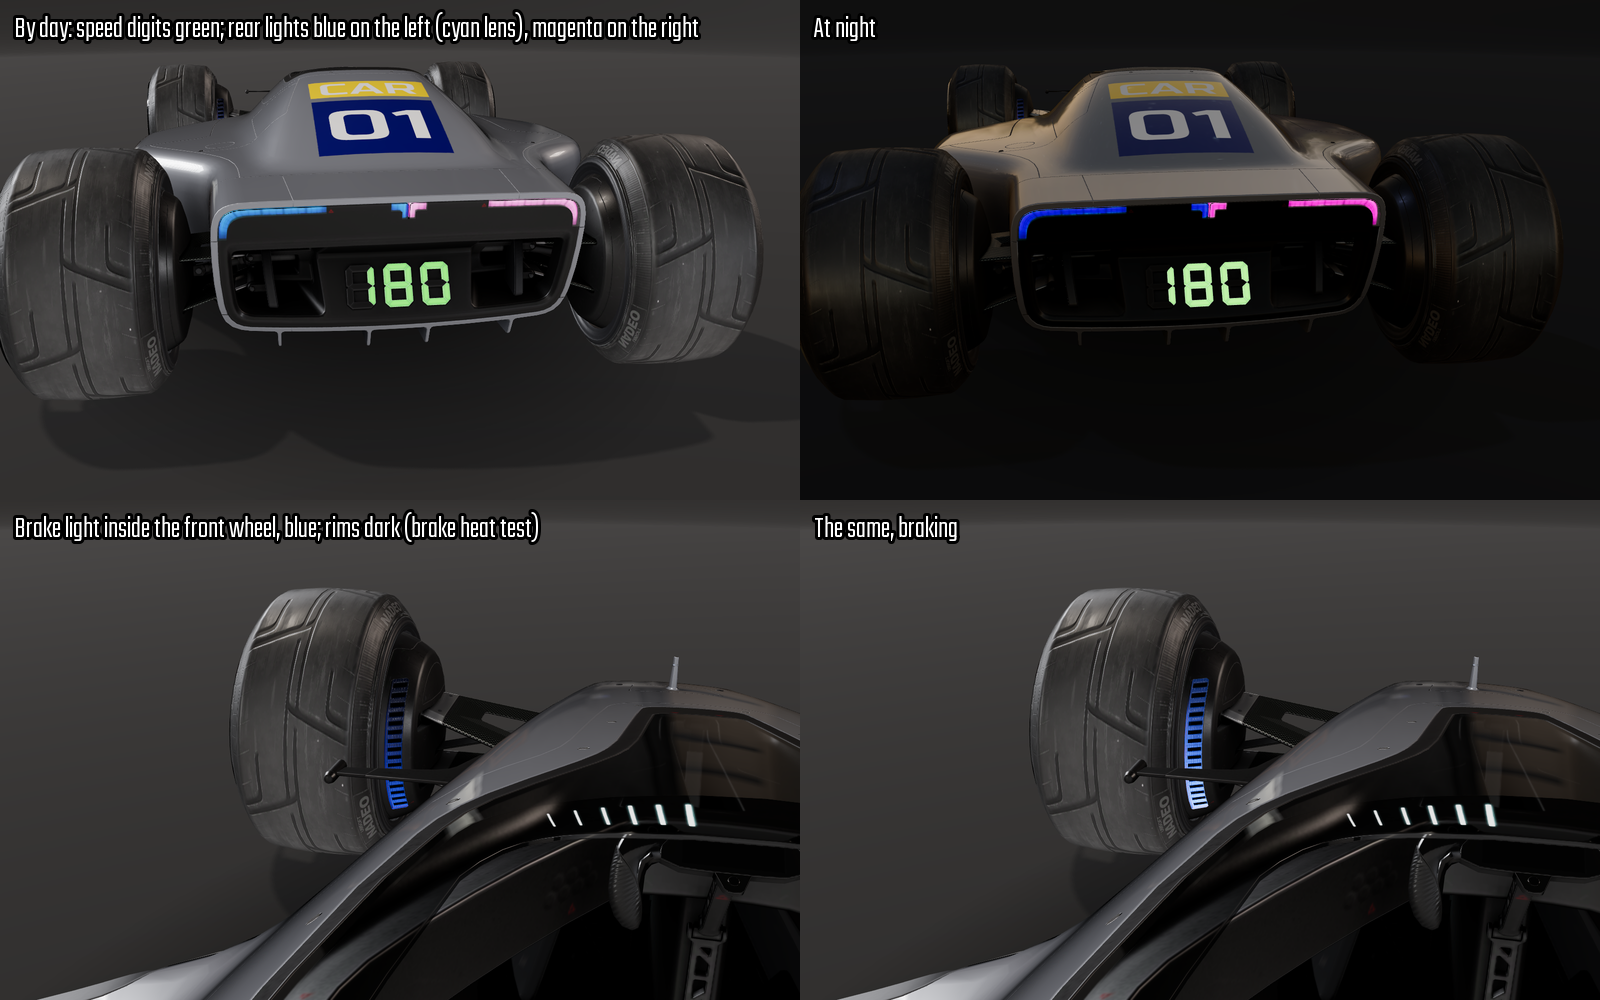
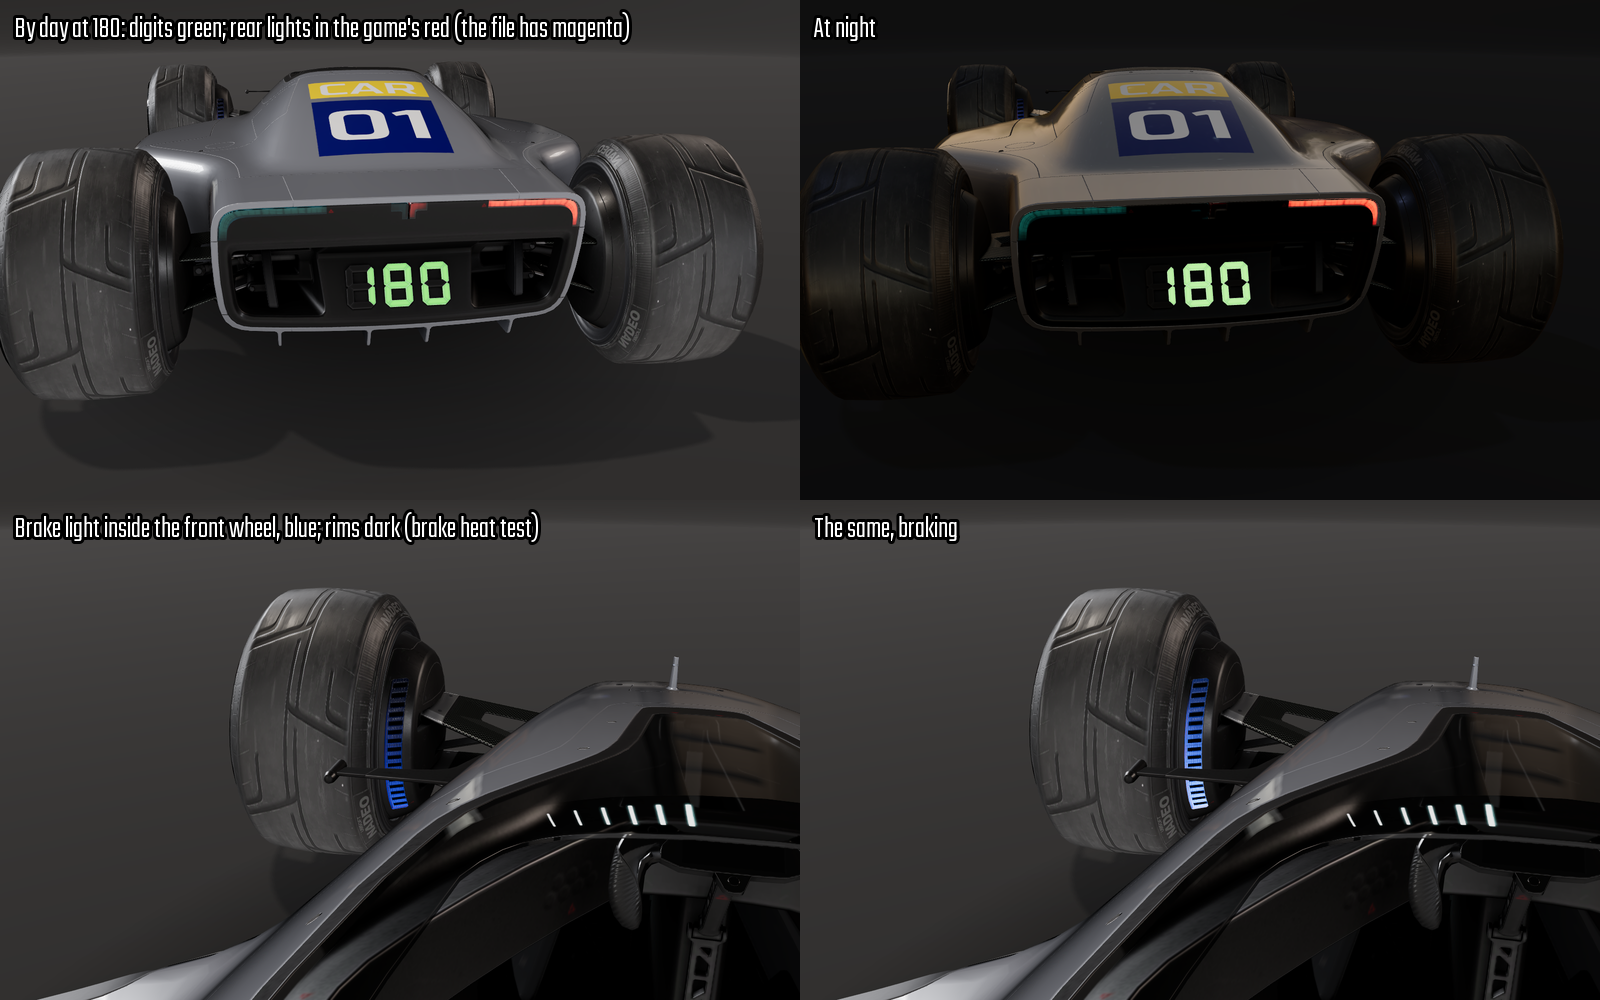
The rear lights as the game's gear display: a band per gear, all red when braking

diff --git a/viewer/viewer.js b/viewer/viewer.js
@@ -506,12 +506,34 @@ function showSpeed(kmh) {
 }
 showSpeed(SPEED);
 
-// Details only; after addGlow.
-function addDigits(material) {
+// ---- The rear lights: a gear display. The user watched the game (2026-09-25): standing still
+// only the far left and right bars light; each gear lights the next bar (five gears); braking
+// lights the whole thing red. Each side's bar (the L from the tail's corner along its top) is
+// split into five bands by dark lines in Details_I/Details_B, at these v's of its UV strip
+// (measured 2026-09-25): the band from v 0.450 (the corner) is gear 1, the one ending at 0.532
+// (towards the middle) gear 5. The small centre piece lights when braking. The colour is the
+// game's red: the stock file is white there, the game red. Provisional until the lights test:
+// the gear speeds, whether the bands fill up or move along, the centre piece. ----
+
+// The bar's surface is tinted red too, as a red lens looks when unlit: a strong glow over the
+// pale stock surface washed out to peach under the tone mapping.
+const REAR = { colour: [1, 0.06, 0.04], lens: [0.55, 0.06, 0.05], on: { day: 1.8, night: 2.4 }, brake: { day: 6, night: 7 } };
+const GEARS = [40, 80, 120, 160];  // km/h where gears 2-5 come in: a guess
+const gearOf = (kmh) => 1 + GEARS.filter((t) => kmh >= t).length;
+const rearUniforms = { rearColour: { value: new THREE.Color(...REAR.colour) }, rearLens: { value: new THREE.Color(...REAR.lens) }, rearLevel: { value: REAR.on.day },
+  rearBrake: { value: 0 }, rearGear: { value: gearOf(SPEED) } };
+
+function setupRearLights() {
+  partsState.doc.parts.forEach((p, i) => { if (p.name === 'rear light') partsState.data[i * 4 + 3] = 255; });
+  partsState.table.needsUpdate = true;
+}
+
+// Details only; after addGlow and addParts: the speed digits and the rear lights.
+function addDisplays(material) {
   const previous = material.onBeforeCompile;
   material.onBeforeCompile = (shader) => {
     if (previous) previous(shader);
-    Object.assign(shader.uniforms, digitUniforms);
+    Object.assign(shader.uniforms, digitUniforms, rearUniforms);
     shader.vertexShader = shader.vertexShader
       .replace('#include <uv_pars_vertex>', `#include <uv_pars_vertex>
         attribute float digit; varying float vDigit;`)
@@ -520,14 +542,27 @@ function addDigits(material) {
     shader.fragmentShader = shader.fragmentShader
       .replace('#include <map_pars_fragment>', `#include <map_pars_fragment>
         varying float vDigit;
-        uniform int digitMask[ 3 ];`)
+        uniform int digitMask[ 3 ];
+        uniform vec3 rearColour; uniform vec3 rearLens; uniform float rearLevel; uniform float rearBrake; uniform int rearGear;
+        #define IS_REAR ( texture2D( partTable, vec2( ( vPart + 0.5 ) / 256.0, 0.25 ) ).a > 0.5 )  // a macro: partTable is declared after this`)
+      .replace('#include <color_fragment>', `#include <color_fragment>
+        if ( IS_REAR ) diffuseColor.rgb *= rearLens;`)
       .replace('#include <aomap_fragment>', `#include <aomap_fragment>
         if ( vDigit > 0.5 ) {  // 1 + 7 * digit + segment
           int code = int( vDigit + 0.5 ) - 1;
           totalEmissiveRadiance *= float( ( digitMask[ code / 7 ] >> ( code % 7 ) ) & 1 );
+        }
+        if ( IS_REAR ) {  // the rear lights
+          float lit = rearBrake;
+          if ( vPartUv.x < 0.5 ) {  // a bar: its band, 0 at the tail's corner to 4 towards the middle
+            int band = int( vPartUv.y >= 0.4747 ) + int( vPartUv.y >= 0.4903 ) + int( vPartUv.y >= 0.5030 ) + int( vPartUv.y >= 0.5157 );
+            lit = max( lit, float( band < rearGear ) );
+          }
+          vec3 file = texture2D( emissiveMap, vEmissiveMapUv ).rgb;
+          totalEmissiveRadiance = max( file.r, max( file.g, file.b ) ) * rearColour * rearLevel * lit;
         }`);
   };
-  material.customProgramCacheKey = () => 'parts-digits';
+  material.customProgramCacheKey = () => 'parts-displays';
 }
 
 // Braking: the brake lights (code 0) flare, as in the game (checkpoint 1: towards white). Show →
@@ -548,6 +583,9 @@ function applyBraking() {
   const look = night ? 'night' : 'day';
   glowUniforms.glowGain.value[0] = braking || drive.brake ? BRAKING[look] : GLOW[0][look];
   glowUniforms.glowGain.value[5] = drive.turbo ? TURBO[look] : GLOW[5][look];
+  const brake = braking || drive.brake;
+  rearUniforms.rearBrake.value = brake ? 1 : 0;
+  rearUniforms.rearLevel.value = (brake ? REAR.brake : REAR.on)[look];
 }
 
 // ---- The pad under the car: hold Accelerate or Brake (or ↑/W, ↓/S) and the car shows it, the
@@ -573,7 +611,12 @@ function stepDrive(now) {
     byId('padTurbo').classList.toggle('on', turbo);
   }
   const kmh = Math.round(drive.speed);
-  if (kmh !== drive.shown) { drive.shown = kmh; showSpeed(kmh); }
+  if (kmh !== drive.shown) {
+    drive.shown = kmh;
+    showSpeed(kmh);
+    rearUniforms.rearGear.value = gearOf(kmh);
+    byId('padGear').textContent = gearOf(kmh);
+  }
 }
 function hold(pedal, on) {
   if (drive[pedal] === on) return;
@@ -716,7 +759,7 @@ function makeMaterials(tex) {
   const out = { Skin: skin, Details: details, Wheels: wheels, Glass: glass };
   for (const [name, material] of Object.entries(out)) addParts(material, sharedMaps[name]);
   addPlate(skin);
-  if (tex.Details_I) addDigits(details);
+  if (tex.Details_I) addDisplays(details);
   return out;
 }
 
@@ -977,6 +1020,7 @@ async function start() {
   buildPartsList();
   addRoom();
   await setupPlate(geoms.Skin);
+  setupRearLights();
   await loadSkin(skinName);
   setNight(false);
   if (!snap) {  // on unless this browser turned it off last time

diff --git a/viewer/index.html b/viewer/index.html
@@ -81,6 +81,8 @@
   #speedo { display: flex; align-items: baseline; gap: 5px; min-width: 104px; justify-content: center; padding: 0 6px; }
   #speedo b { font-size: 38px; font-weight: 600; font-variant-numeric: tabular-nums; }
   #speedo small { font-size: 16px; opacity: 0.6; }
+  #speedo .gear { margin-left: 8px; }
+  #speedo .gear b { font-size: 20px; opacity: 1; }
   #padTurbo { font-style: normal; font-size: 15px; padding: 3px 6px 1px; margin-left: 4px; opacity: 0.3; transform: skewX(-12deg); }
   #padTurbo.on { opacity: 1; background: var(--acc); color: var(--ground); }
 
@@ -191,7 +193,7 @@
 
 <div id="pad" class="chrome teko">
   <button id="padBrake" class="sk key" aria-pressed="false" title="hold to brake (↓ or S)"><svg class="ic"><use href="#i-down"/></svg><span>Brake</span></button>
-  <span id="speedo"><b id="padSpeed">180</b><small>km/h</small><i id="padTurbo" title="the turbo-colour glow, from 100 km/h (provisional)">Turbo</i></span>
+  <span id="speedo"><b id="padSpeed">180</b><small>km/h</small><small class="gear">gear <b id="padGear">5</b></small><i id="padTurbo" title="the turbo-colour glow, from 100 km/h (provisional)">Turbo</i></span>
   <button id="padGas" class="sk key" aria-pressed="false" title="hold to accelerate (↑ or W)"><span>Accelerate</span><svg class="ic"><use href="#i-up"/></svg></button>
 </div>
 

diff --git a/skins/TSC_Lights_Test/notes.md b/skins/TSC_Lights_Test/notes.md
@@ -9,7 +9,7 @@ shows; compare the game's screenshots with it.
 |---|---|---|---|
 | Speed digits (rear bumper) | green | the stock glow (white, code 96) recoloured | the speed shows in green, and the unlit segments stay dark |
 | Brake lights (the slotted crescent inside each front wheel) | blue | the stock glow (dim red, code 0) recoloured | dim blue at rest, flaring when braking. A report online says red may show through |
-| Rear lights (the bars under the tail's lenses) | magenta glow; the car's left lens tinted cyan | the stock glow (white in the file, red in the game) recoloured, and the lens tinted | red on both sides = neither works; magenta = the glow works; cyan or blue on the left = the lens tint works too |
+| Rear lights (the bars under the tail's lenses) | magenta glow; the car's left lens tinted cyan | the stock glow (white in the file, red in the game) recoloured, and the lens tinted | red on both sides = neither works; magenta = the glow works; cyan or blue on the left = the lens tint works too. The viewer shows the game's red (the stock look) |
 | Initials and number (engine cover) | yellow panel behind the initials, dark blue behind the number | plain paint | research says the game mode sets the lettering's colour (white in a normal race), so it should stay white on both |
 | Brake heat (the wheel rims) | orange | code 64, rims painted dark | orange rims when braking hard |
 | Exhaust heat (the side vents at the tail) | yellow | code 192, vents painted dark | yellow vents during a turbo |
@@ -30,6 +30,11 @@ them light up (checkpoint 4), so they sit on bigger, plainer spots here.
    edges (the game's turbo colour), and the back of the car (exhaust heat).
 3. One hard stop from full speed, looking at the front wheels (brake heat, "on when braking
    hard"), then a gentle stop, to compare.
+   Also the rear lights as a gear display (the user's observation, 2026-09-25: standing still
+   only the outer ends light, each gear lights the next band, braking lights it all red): at
+   which speeds the bands come on, whether they fill up or move along one at a time, and
+   when the small piece in the middle lights. A short video from behind while accelerating
+   from a standstill would answer all three.
 4. The same at night (a night map or night mood).
 5. A close look at the engine cover, to see the lettering on the yellow and blue panels.
 6. One screenshot with the game's Cam 2 (standing still is fine), for the viewer's camera menu.

diff --git a/CHECKLIST.md b/CHECKLIST.md
@@ -768,6 +768,13 @@ Part 1 comes first, because every design depends on it.
       those areas green while driving and dark at rest. The documented trigger is "turbo
       input" (below), so the lights test is to settle it. Snapshots keep it off. Once the game's screenshots show what turbo, boost
       and the other glows do, they join the pad as states.
+    - **The rear lights are a gear display** (the user, from the game, 2026-09-25): standing
+      still only the far left and right ends light, each gear lights the next band (five
+      gears), braking lights it all red. Each side's bar has five bands, split by dark lines in
+      its texture (v 0.4747, 0.4903, 0.5030, 0.5157 of its UV strip; the corner end is band 1).
+      The viewer shows them in the game's red with a red-tinted surface, band by band by gear
+      (`GEARS` 40/80/120/160 km/h, a guess), all bands and the centre piece when braking.
+      Provisional: the shift speeds, fill-up versus one at a time, the centre piece.
     - **What triggers the other glows** (research, 2026-09-25; the only source is xrayjay's
       table, "TM2020 Illum Alpha Tones", which Nadeo links): 160 turbo colour "is colored under
       turbo input" (the turbo pads), 192 exhaust heat "ON when Turbo is enabled", 224 boost "is
